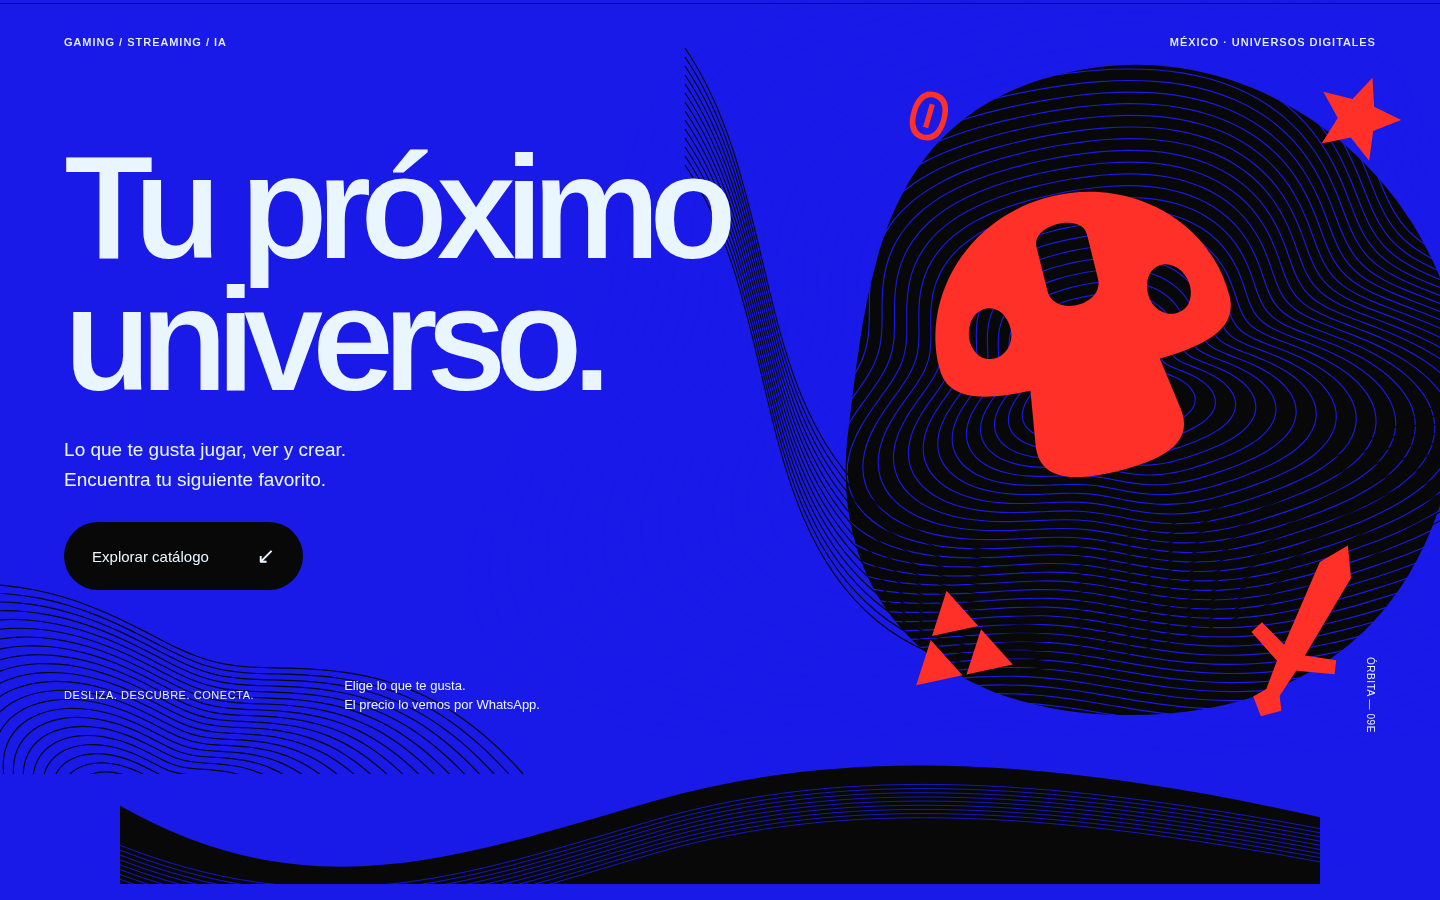
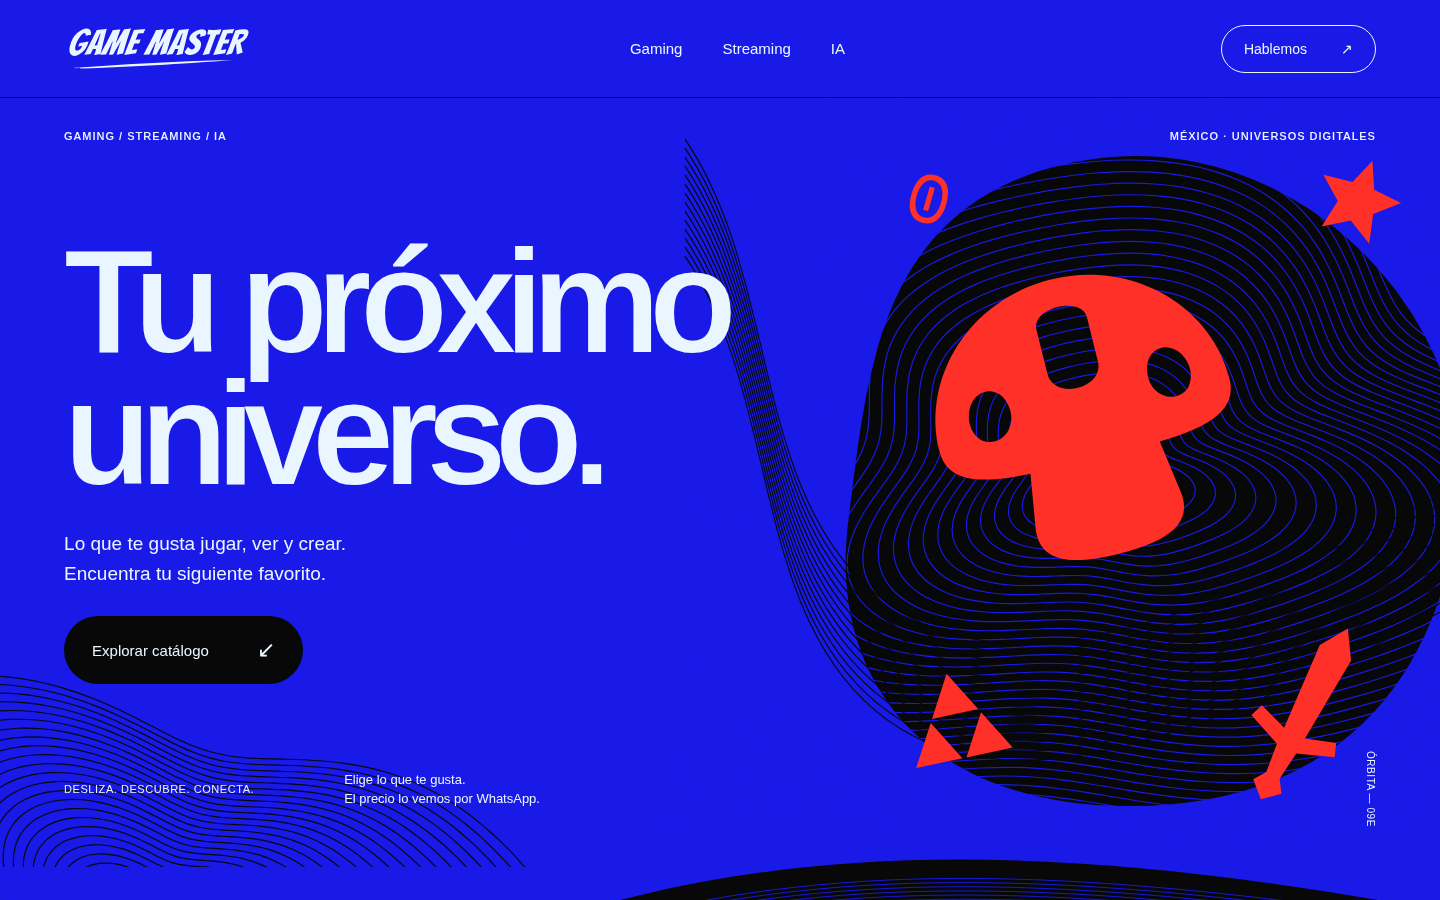
identidad-v9e: portadas en una sola tinta plana (rojo/negro, sin azul) y forma negra del inicio sin cortes rectos; capturas nuevas

diff --git a/identidad-v9e/styles.css b/identidad-v9e/styles.css
@@ -69,7 +69,7 @@ h1 { max-width: 800px; font-size: var(--hero-size); font-weight: 600; letter-spa
 .hero-foot > p { margin-left: 90px; margin-right: auto; font-size: 13px; letter-spacing: 0; line-height: 1.5; }
 .orbit-sign { font-size: 10px; writing-mode: vertical-rl; }
 .shore { position: relative; pointer-events: none; overflow: clip; }
-.shore img { width: 100%; height: 100%; }
+.shore img { width: 100%; height: 100%; object-fit: fill; }
 .shore-games { height: 150px; margin-top: -30px; }
 .dark-section { background: var(--black); }
 .gaming, .ai, .how { position: relative; padding: 30px var(--page-gutter) 0; }

diff --git a/identidad-v9e/herramientas/planas.py b/identidad-v9e/herramientas/planas.py
@@ -1,0 +1,19 @@
+#!/usr/bin/env python3
+"""Convierte las portadas a arte plano de UN solo color (rojo sobre negro).
+Cada portada queda con 3 tintas planas: negro, rojo oscuro y rojo. Sin azul, sin degradados."""
+from pathlib import Path
+from PIL import Image, ImageFilter, ImageOps
+D = Path(__file__).resolve().parents[1] / 'assets' / 'portadas'
+INK = [(8, 8, 8), (150, 22, 18), (255, 48, 40)]
+for f in sorted(D.glob('*.webp')):
+    im = Image.open(f).convert('L').filter(ImageFilter.MedianFilter(5))
+    im = ImageOps.autocontrast(im, cutoff=2)
+    lo, hi = 85, 170
+    out = Image.new('RGB', im.size)
+    px = im.load(); o = out.load()
+    for y in range(im.size[1]):
+        for x in range(im.size[0]):
+            v = px[x, y]
+            o[x, y] = INK[0] if v < lo else INK[1] if v < hi else INK[2]
+    out.save(f, 'WEBP', lossless=True, method=6)
+    print(f.name, f.stat().st_size // 1024, 'KB')

diff --git a/identidad-v9e/herramientas/dibujar.py b/identidad-v9e/herramientas/dibujar.py
@@ -9,8 +9,9 @@ RED = '#FF3028'
 
 
 def svg(name, width, height, content, folder='arte'):
+    par = ' preserveAspectRatio="none"' if name.startswith('rive-') else ''
     (ROOT / folder / f'{name}.svg').write_text(
-        f'<svg xmlns="http://www.w3.org/2000/svg" viewBox="0 0 {width} {height}">'
+        f'<svg xmlns="http://www.w3.org/2000/svg"{par} viewBox="0 0 {width} {height}">'
         f'{content}</svg>\n', encoding='utf-8')
 
 

diff --git a/identidad-v9e/RESUMEN.md b/identidad-v9e/RESUMEN.md
@@ -10,5 +10,6 @@
 
 **Avisos honestos:**
 - Los íconos (hongo, Triforce, Pokéball, etc.) son símbolos simples dibujados por nosotros, sin personajes, pero evocan marcas de Nintendo/Pokémon: pueden tener derechos de marca. Úsalos solo con criterio y sin dar a entender aval.
-- Las portadas de juegos de las filas son arte de terceros con sus propios colores (incluye rojo y azul); no son parte del sistema.
+- Las portadas de juegos son arte de terceros, pero ya están convertidas a UNA sola tinta plana (rojo y negro, 3 tonos sin degradados, sin azul), con `herramientas/planas.py`. Ninguna portada mezcla rojo y azul. Siguen siendo derechos de sus dueños y evocan el original, no es el arte oficial a color.
+- Corregido: la forma negra de la primera sección se veía cortada con lados rectos; era el SVG que no se estiraba al ancho. Ahora llega de borde a borde con curva suave (`preserveAspectRatio="none"`).
 - Logos de terceros: derechos de sus dueños, solo para identificar el servicio.
